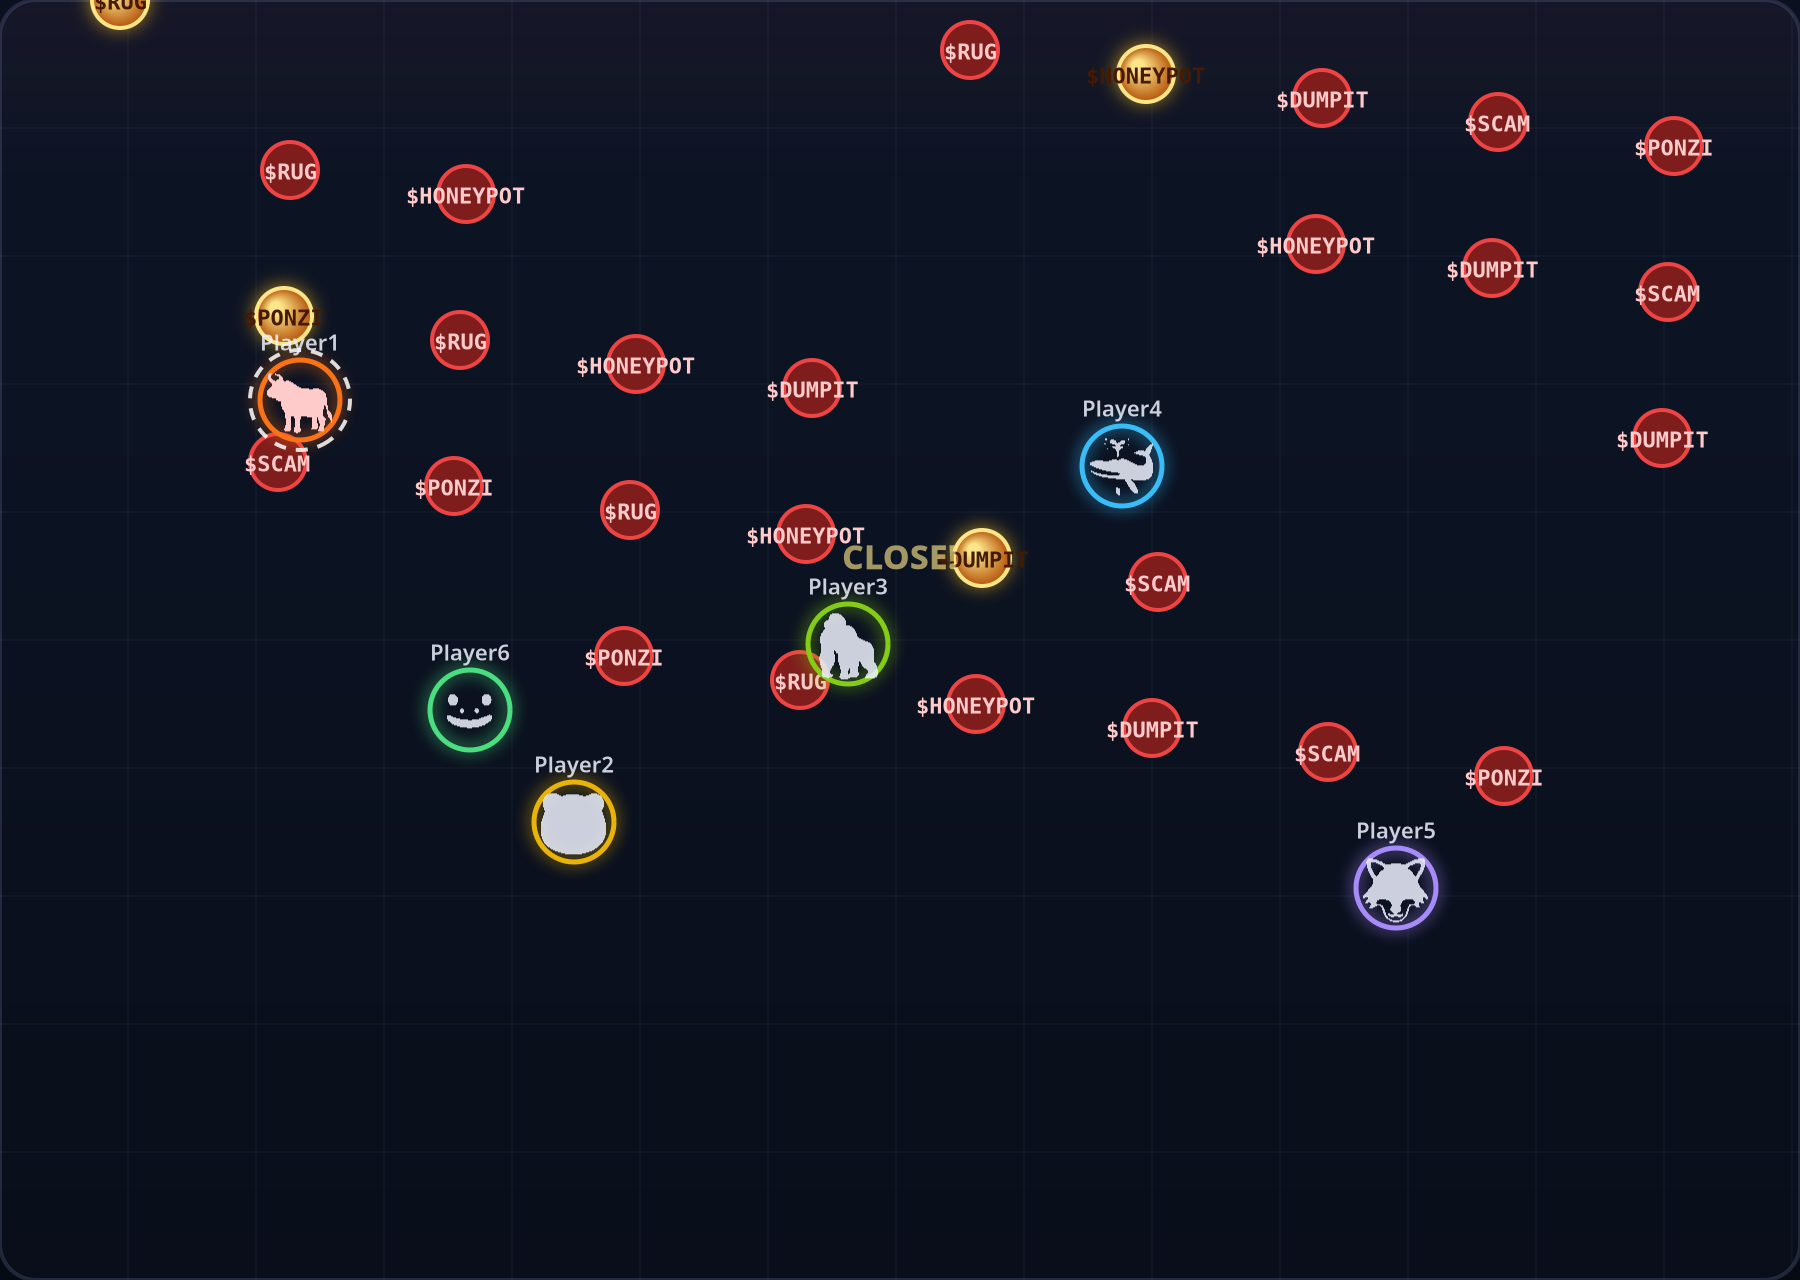
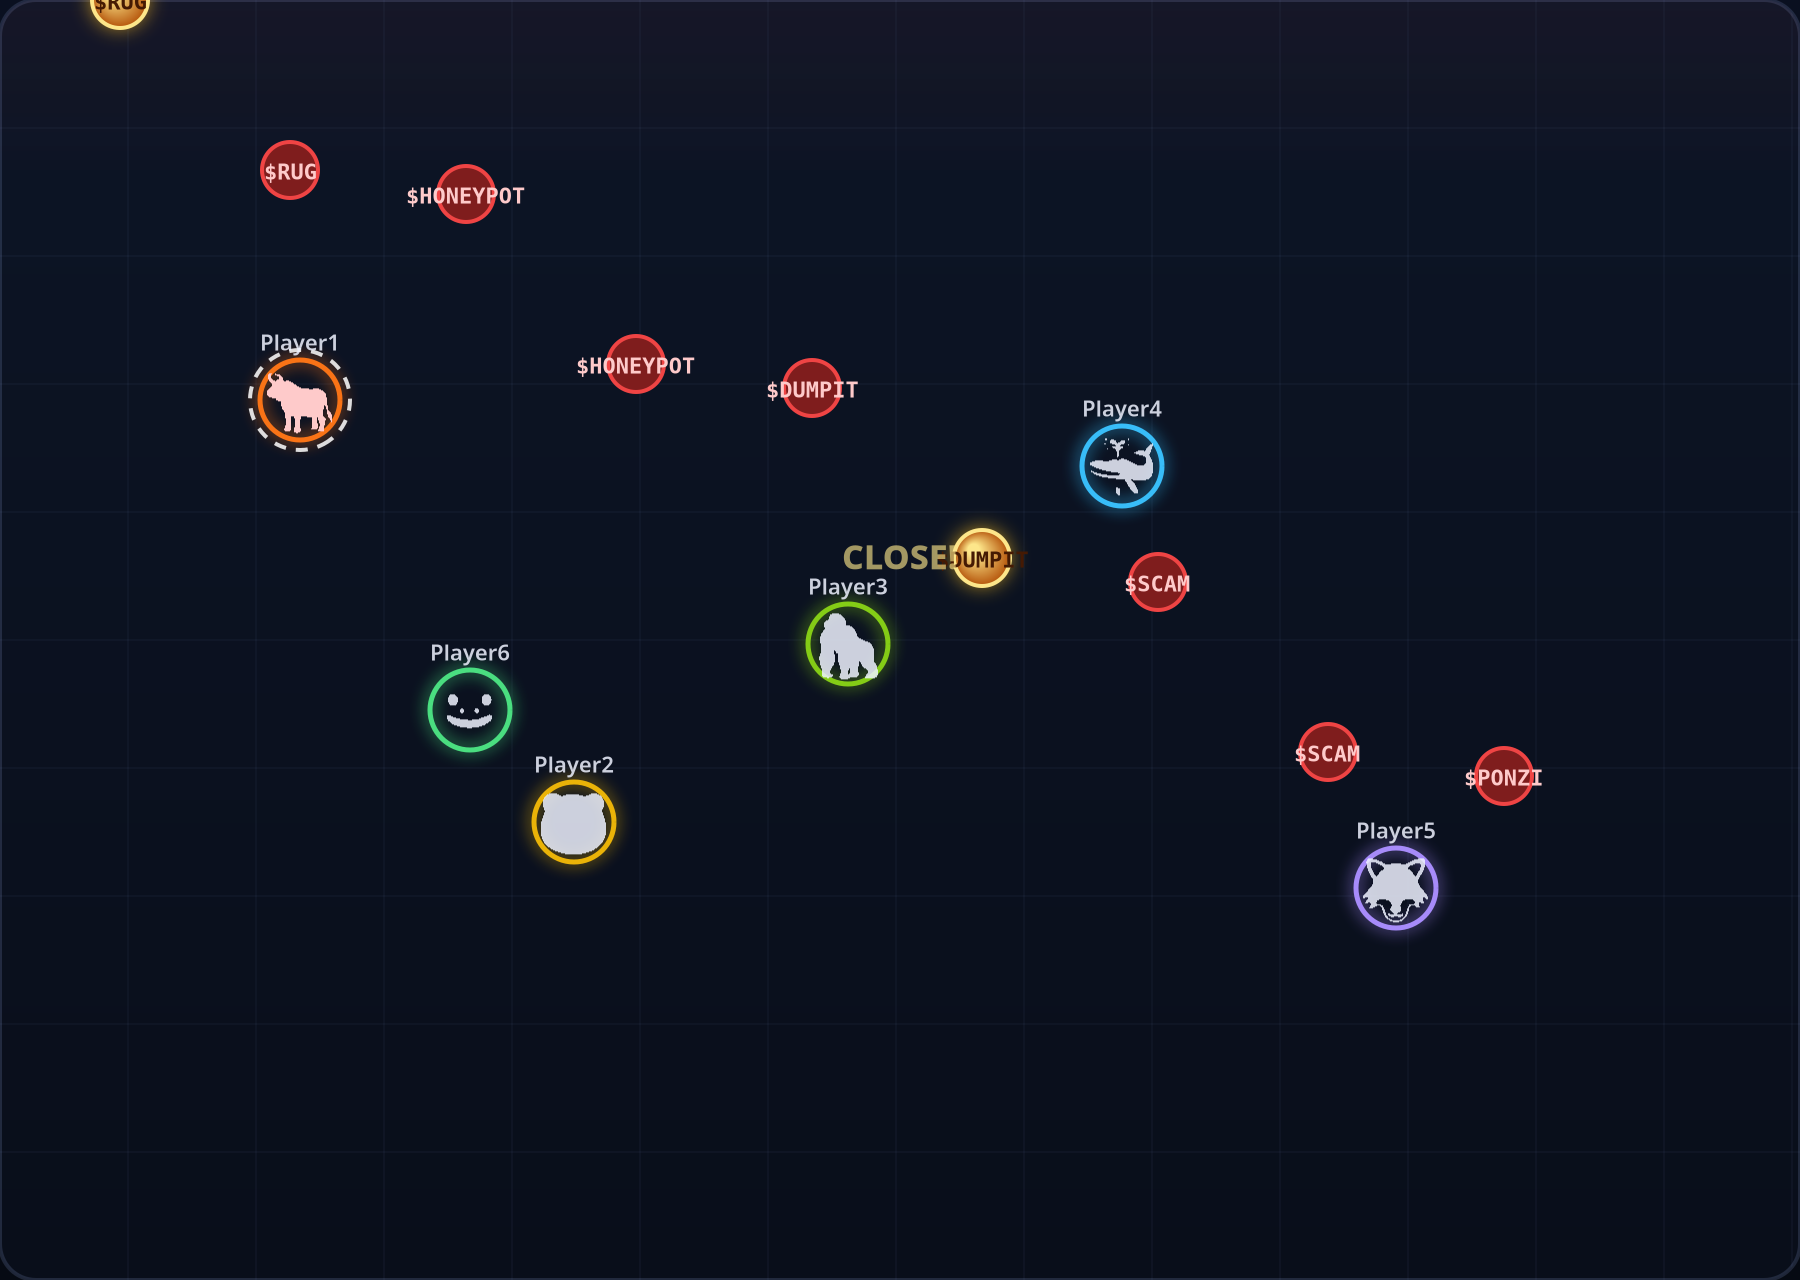
Solo demo mode: no-server single-player for testers

diff --git a/client/src/demo.js b/client/src/demo.js
@@ -1,0 +1,192 @@
+// Single-player demo — no server, runs entirely in the browser.
+// For non-dev testers (Bobby) to try the gameplay.
+import { createRenderer, ARENA, ANIMAL_COLORS } from './game.js';
+import { sfx } from './audio.js';
+
+const TICKERS = ['RUG', 'HONEYPOT', 'DUMPIT', 'SCAM', 'PONZI'];
+const PLAYER_R = 17;
+const PLAYER_SPEED = 300;
+
+let renderer = null;
+let running = false;
+let rafId = 0;
+let lastTs = 0;
+
+const player = { id: 'demo', name: 'You', animal: 'ape', x: 450, y: 560, alive: true };
+let coins = [];
+let coinId = 0;
+let spawnAcc = 0;
+let elapsed = 0;
+let danger = 0;
+
+const keys = new Set();
+const keyVec = { dx: 0, dy: 0 };
+const touch = { active: false, tx: 0, ty: 0 };
+
+function spawnCoin() {
+  coinId++;
+  coins.push({
+    id: 'c' + coinId,
+    x: 40 + Math.random() * (ARENA.w - 80),
+    y: -20,
+    vy: 140 + Math.random() * 120 + elapsed * 1.2,
+    drift: (Math.random() - 0.5) * 40,
+    r: 14,
+    golden: Math.random() < 0.14,
+    ticker: TICKERS[(Math.random() * TICKERS.length) | 0],
+  });
+}
+
+function reset() {
+  player.x = 450; player.y = 560; player.alive = true;
+  coins = []; coinId = 0; spawnAcc = 0; elapsed = 0; danger = 0;
+  keys.clear(); keyVec.dx = 0; keyVec.dy = 0;
+  touch.active = false;
+}
+
+function collide() {
+  for (const c of coins) {
+    const dx = c.x - player.x, dy = c.y - player.y;
+    if (Math.hypot(dx, dy) < PLAYER_R + c.r * 0.8) return c;
+  }
+  return null;
+}
+
+function loop(ts) {
+  if (!running) return;
+  rafId = requestAnimationFrame(loop);
+  const dt = Math.min(0.05, (ts - lastTs) / 1000 || 0.016);
+  lastTs = ts;
+  if (!player.alive) { renderer.frame(dt, ts / 1000, null); return; }
+
+  elapsed += dt;
+  danger = Math.min(1, elapsed / 75);
+  renderer.setDanger(danger);
+
+  // spawn coins (same pacing as server)
+  const interval = Math.max(0.22, 0.62 - elapsed * 0.004);
+  spawnAcc += dt;
+  while (spawnAcc >= interval) { spawnAcc -= interval; spawnCoin(); }
+
+  // move coins
+  for (let i = coins.length - 1; i >= 0; i--) {
+    const c = coins[i];
+    c.y += c.vy * dt; c.x += c.drift * dt;
+    if (c.y > ARENA.h + 30) coins.splice(i, 1);
+  }
+
+  // move player
+  if (touch.active) {
+    const dx = touch.tx - player.x, dy = touch.ty - player.y;
+    const d = Math.hypot(dx, dy);
+    if (d > 4) {
+      const s = Math.min(d, PLAYER_SPEED * dt);
+      player.x += (dx / d) * s; player.y += (dy / d) * s;
+    }
+  } else if (keyVec.dx || keyVec.dy) {
+    const l = Math.hypot(keyVec.dx, keyVec.dy) || 1;
+    player.x += (keyVec.dx / l) * PLAYER_SPEED * dt;
+    player.y += (keyVec.dy / l) * PLAYER_SPEED * dt;
+  }
+  player.x = Math.max(PLAYER_R, Math.min(ARENA.w - PLAYER_R, player.x));
+  player.y = Math.max(PLAYER_R, Math.min(ARENA.h - PLAYER_R, player.y));
+
+  // near-miss + collision
+  const hit = collide();
+  if (hit) {
+    player.alive = false;
+    renderer.burst(player.x, player.y, ANIMAL_COLORS[player.animal] || '#fff', 30);
+    renderer.addShake(0.6);
+    renderer.popup(player.x, player.y - 30, 'REKT!', '#f87171');
+    sfx.elim();
+    onDemoEnd(false);
+  } else {
+    // near-miss sfx
+    for (const c of coins) {
+      const d = Math.hypot(c.x - player.x, c.y - player.y);
+      if (d < PLAYER_R + c.r + 14 && d >= PLAYER_R + c.r * 0.8) {
+        if (!c.near) { c.near = true; renderer.addShake(0.25); sfx.near(); }
+      }
+    }
+  }
+
+  renderer.setState([player], coins);
+  renderer.frame(dt, ts / 1000, null);
+
+  // HUD
+  const tEl = document.getElementById('demo-time');
+  if (tEl) tEl.textContent = elapsed.toFixed(1) + 's';
+}
+
+let onDemoEnd = () => {};
+
+export function startDemo(canvas, onEnd) {
+  onDemoEnd = onEnd || (() => {});
+  if (!renderer) renderer = createRenderer(canvas);
+  renderer.resize();
+  reset();
+  running = true;
+  lastTs = 0;
+  renderer.setState([player], []);
+  sfx.go();
+  rafId = requestAnimationFrame(loop);
+}
+
+export function stopDemo() {
+  running = false;
+  cancelAnimationFrame(rafId);
+  if (renderer) renderer.clearOverride('demo');
+}
+
+export function setDemoAnimal(animal) { player.animal = animal; }
+
+// input — mirrors main.js key handling
+const KEYMAP = {
+  ArrowUp: [0, -1], KeyW: [0, -1],
+  ArrowDown: [0, 1], KeyS: [0, 1],
+  ArrowLeft: [-1, 0], KeyA: [-1, 0],
+  ArrowRight: [1, 0], KeyD: [1, 0],
+};
+function recompute() {
+  let dx = 0, dy = 0;
+  for (const c of keys) { const v = KEYMAP[c]; dx += v[0]; dy += v[1]; }
+  keyVec.dx = dx; keyVec.dy = dy;
+}
+window.addEventListener('keydown', (e) => {
+  if (!running || !player.alive) return;
+  const v = KEYMAP[e.code];
+  if (!v) return;
+  e.preventDefault();
+  if (!keys.has(e.code)) { keys.add(e.code); recompute(); }
+});
+window.addEventListener('keyup', (e) => {
+  if (keys.delete(e.code)) recompute();
+});
+
+export function demoTouchHandlers(canvas) {
+  const pos = (e) => {
+    const r = canvas.getBoundingClientRect();
+    const cx = e.touches ? e.touches[0].clientX : e.clientX;
+    const cy = e.touches ? e.touches[0].clientY : e.clientY;
+    return {
+      x: (cx - r.left - renderer.ox) / renderer.scale,
+      y: (cy - r.top - renderer.oy) / renderer.scale,
+    };
+  };
+  canvas.addEventListener('touchstart', (e) => {
+    if (!running) return;
+    e.preventDefault(); sfx.unlock();
+    const p = pos(e);
+    touch.active = true; touch.tx = p.x; touch.ty = p.y;
+  }, { passive: false });
+  canvas.addEventListener('touchmove', (e) => {
+    if (!running || !touch.active) return;
+    e.preventDefault();
+    const p = pos(e);
+    touch.tx = p.x; touch.ty = p.y;
+  }, { passive: false });
+  canvas.addEventListener('touchend', (e) => {
+    e.preventDefault();
+    touch.active = false;
+  });
+}

diff --git a/client/src/main.js b/client/src/main.js
@@ -1,6 +1,7 @@
 import { GameSocket } from './net.js';
 import { createRenderer, ANIMALS, ANIMAL_EMOJI, ANIMAL_COLORS } from './game.js';
 import { sfx, toggleMute, isMuted } from './audio.js';
+import { startDemo, stopDemo, setDemoAnimal, demoTouchHandlers } from './demo.js';
 
 // ---------- dom helper (must come first) ----------
 const $ = (id) => document.getElementById(id);
@@ -15,7 +16,10 @@ function showView(name) {
   if (name === 'landing' && !factsLoaded) loadFacts();
   window.scrollTo(0, 0);
 }
-document.querySelectorAll('[data-view]').forEach((b) => b.addEventListener('click', () => showView(b.dataset.view)));
+document.querySelectorAll('[data-view]').forEach((b) => b.addEventListener('click', () => {
+  if (b.dataset.view !== 'play') stopDemo();
+  showView(b.dataset.view);
+}));
 
 async function loadFacts() {
   factsLoaded = true;
@@ -83,7 +87,7 @@ const ELIM_QUIPS = [
 const pick = (a) => a[(Math.random() * a.length) | 0];
 
 // ---------- dom ----------
-const screens = { home: $('screen-home'), lobby: $('screen-lobby'), game: $('screen-game') };
+const screens = { home: $('screen-home'), lobby: $('screen-lobby'), game: $('screen-game'), demo: $('screen-demo') };
 function show(name) {
   for (const k in screens) screens[k].classList.toggle('active', k === name);
 }
@@ -138,6 +142,32 @@ let lastInputSend = 0;
 
 // ---------- home ----------
 $('btn-quick').addEventListener('click', () => join({ mode: 'quick' }));
+
+// ---------- solo demo ----------
+let demoBound = false;
+$('btn-demo').addEventListener('click', () => {
+  sfx.unlock();
+  setDemoAnimal(myAnimal);
+  $('demo-end').classList.add('hidden');
+  show('demo');
+  if (!demoBound) { demoBound = true; demoTouchHandlers($('demo-canvas')); }
+  startDemo($('demo-canvas'), (survived) => {
+    $('demo-sub').textContent = `You survived ${document.getElementById('demo-time').textContent}. One touch and you're out!`;
+    $('demo-end').classList.remove('hidden');
+  });
+});
+$('btn-demo-again').addEventListener('click', () => {
+  $('demo-end').classList.add('hidden');
+  setDemoAnimal(myAnimal);
+  startDemo($('demo-canvas'), () => {
+    $('demo-sub').textContent = `You survived ${document.getElementById('demo-time').textContent}. One touch and you're out!`;
+    $('demo-end').classList.remove('hidden');
+  });
+});
+$('btn-demo-leave').addEventListener('click', () => {
+  stopDemo();
+  show('home');
+});
 $('btn-join-code').addEventListener('click', () => {
   join({ mode: 'code', code: $('code-input').value.trim() });
 });

diff --git a/client/index.html b/client/index.html
@@ -106,6 +106,9 @@
           <div class="btn-row">
             <button id="btn-quick" class="btn primary">Quick match</button>
           </div>
+          <div class="btn-row">
+            <button id="btn-demo" class="btn">Try solo demo</button>
+          </div>
           <p class="divider"><span>or join a private room</span></p>
           <div class="join-row">
             <input id="code-input" maxlength="4" placeholder="CODE" autocomplete="off" />
@@ -155,6 +158,21 @@
           <p id="banner-sub"></p>
           <button id="btn-rematch" class="btn primary">Rematch</button>
           <button id="btn-leave-end" class="btn ghost">Leave</button>
+        </div>
+      </section>
+
+      <!-- SOLO DEMO -->
+      <section id="screen-demo" class="screen">
+        <div id="hud-demo">
+          <span>⏱ <span id="demo-time">0.0s</span></span>
+          <span class="hint">Solo demo — no server</span>
+        </div>
+        <canvas id="demo-canvas"></canvas>
+        <div id="demo-end" class="overlay hidden">
+          <h2 id="demo-title">💀 REKT!</h2>
+          <p id="demo-sub" class="sub"></p>
+          <button id="btn-demo-again" class="btn primary">Try again</button>
+          <button id="btn-demo-leave" class="btn ghost">Back</button>
         </div>
       </section>
     </div>

diff --git a/client/src/style.css b/client/src/style.css
@@ -223,6 +223,9 @@ input:focus { border-color: var(--gold); }
 .pop-num { display: inline-flex; align-items: center; justify-content: center; width: 34px; height: 34px; border-radius: 50%; background: rgba(26,20,64,.12); color: #1a1440; font-weight: 800; font-size: 17px; margin-bottom: 8px; border: 2px solid rgba(26,20,64,.25); }
 .pop-card b { display: block; font-size: 17px; color: #1a1440; margin-bottom: 4px; }
 .pop-card p { margin: 0; font-size: 13px; color: #3d3670; line-height: 1.4; font-weight: 600; }
+#hud-demo { display: flex; align-items: center; justify-content: space-between; width: 100%; max-width: 900px; padding: 8px 4px; font-weight: 800; font-size: 16px; }
+#hud-demo .hint { margin: 0; }
+#demo-canvas { width: 100%; max-width: 900px; aspect-ratio: 900/640; border-radius: 20px; border: 3px solid var(--line); background: #0a0d18; touch-action: none; }
 @media (max-width: 480px) { .cards { gap: 10px; } .pop-card { padding: 14px 10px; border-radius: 20px; } .pop-emoji { font-size: 28px; } .pop-card b { font-size: 15px; } }
 @media (max-width: 480px) {
   #topnav { padding: 10px 12px; }
